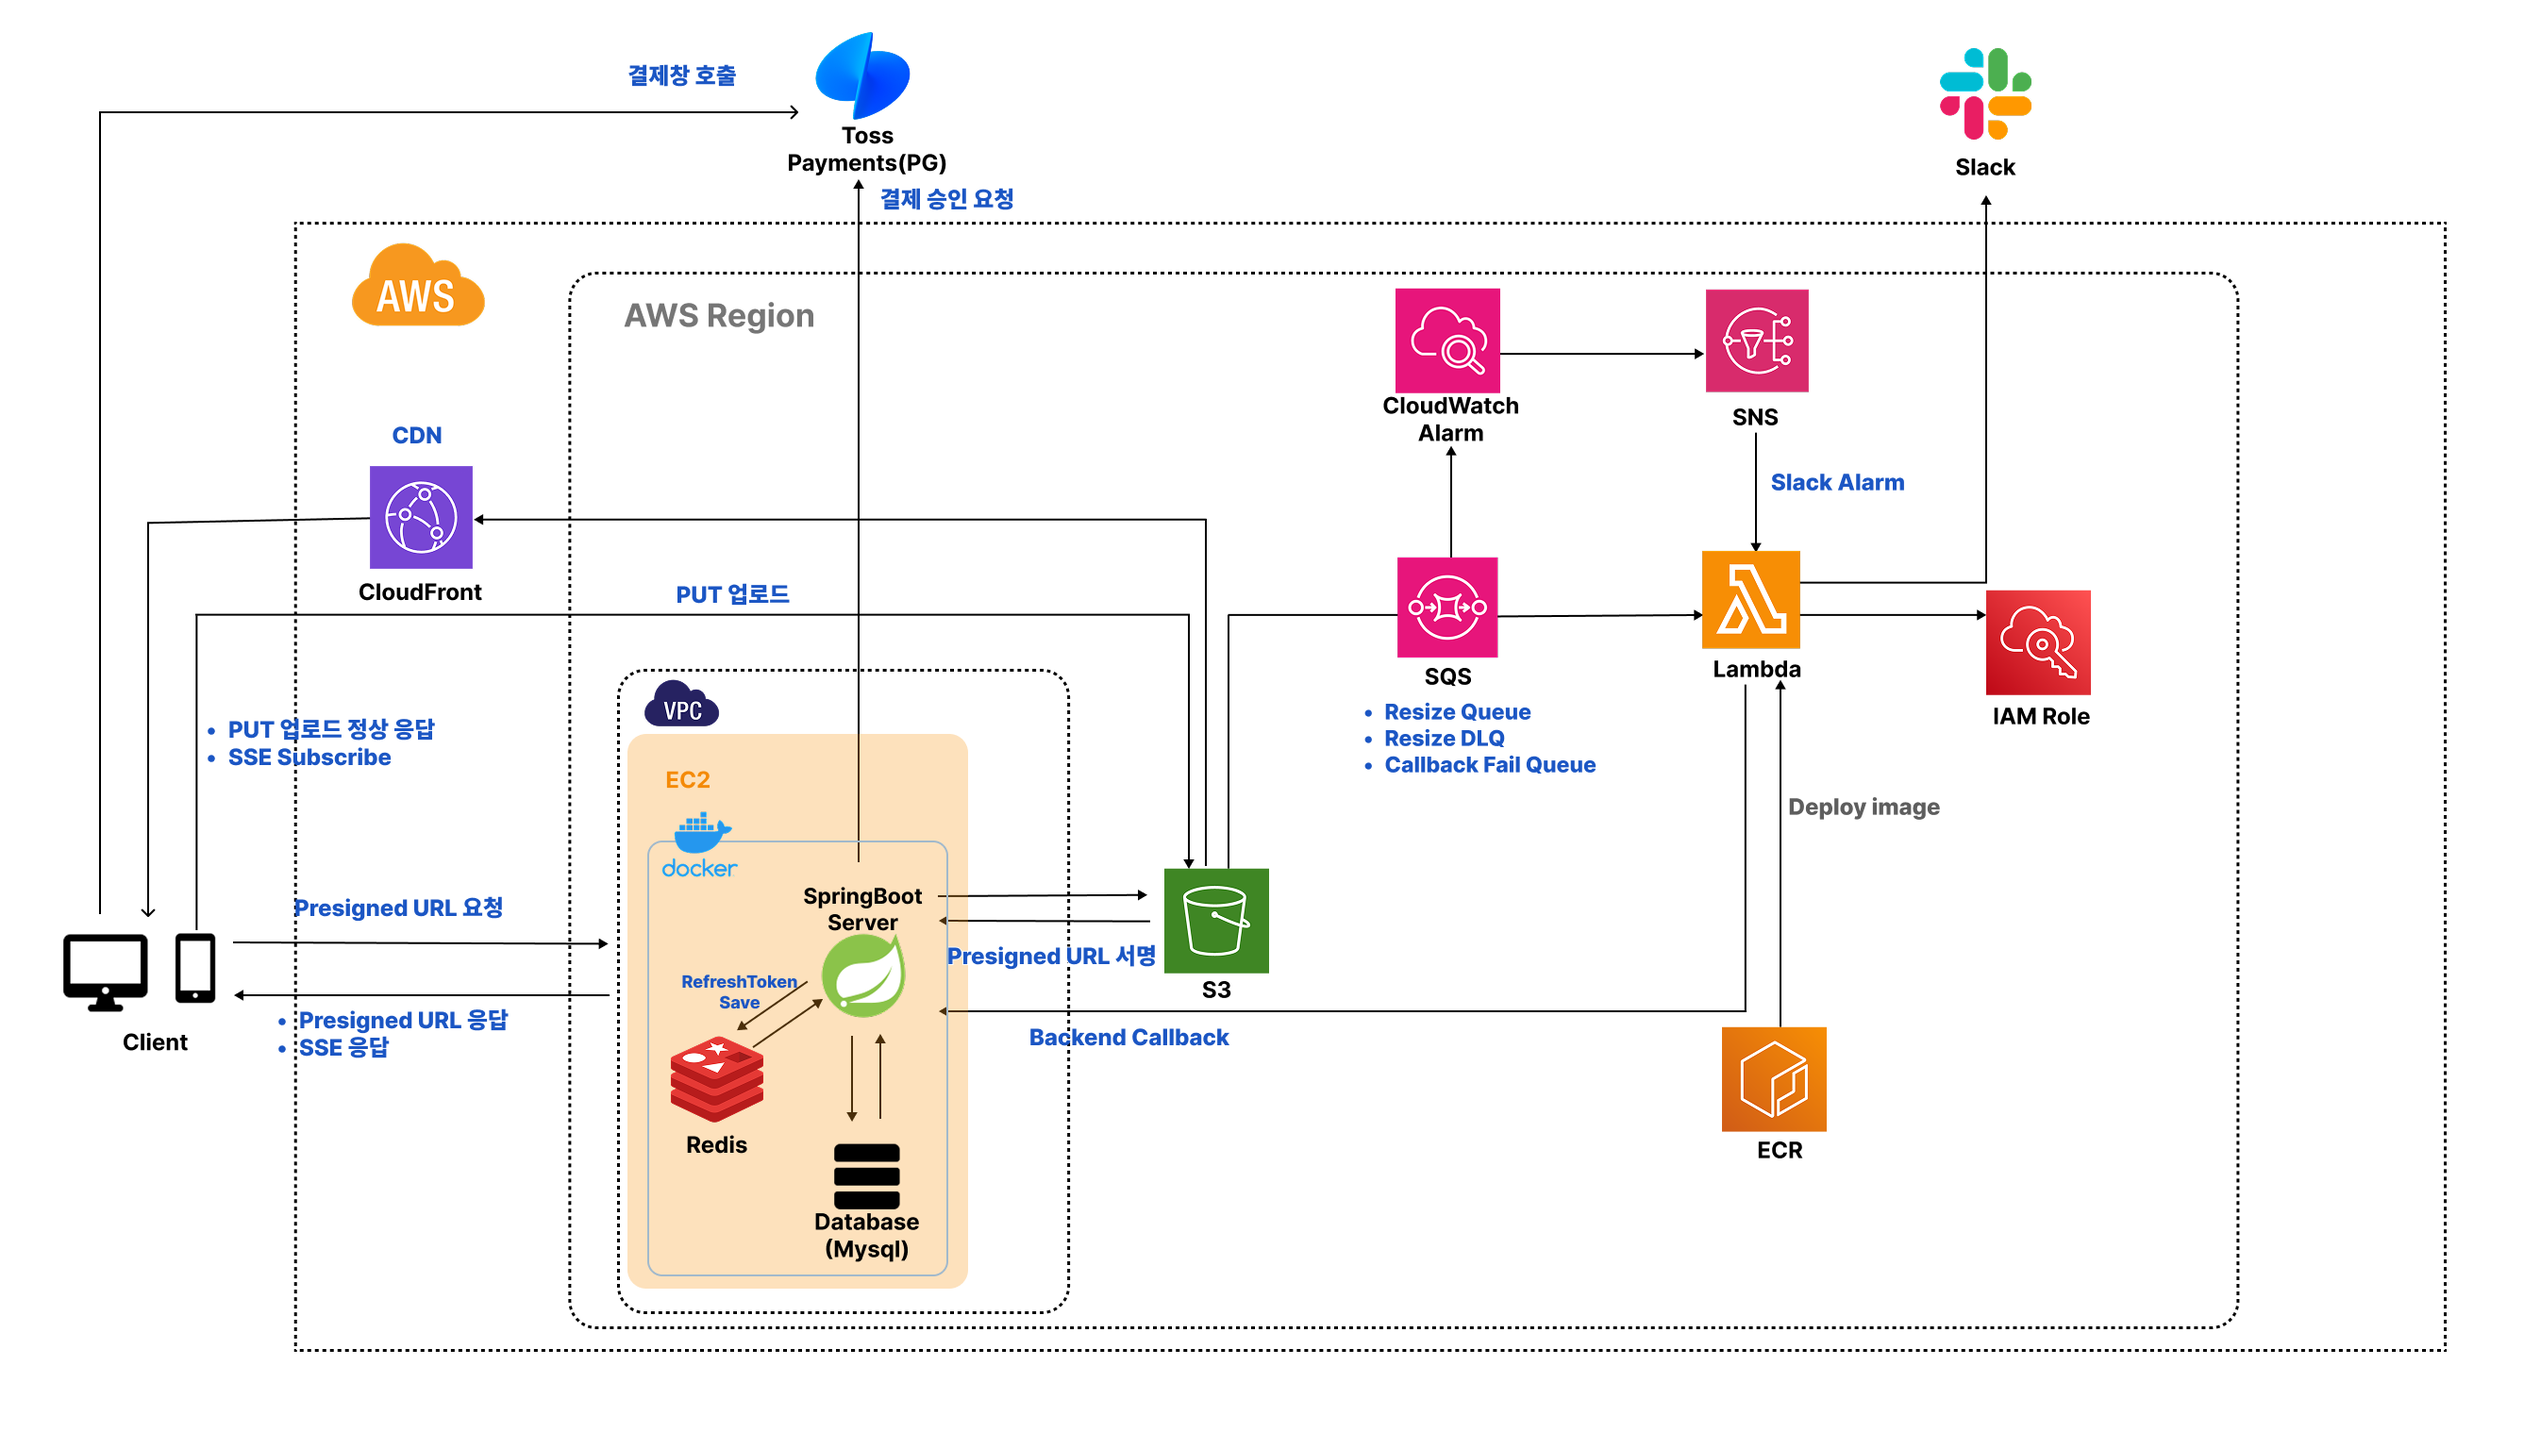
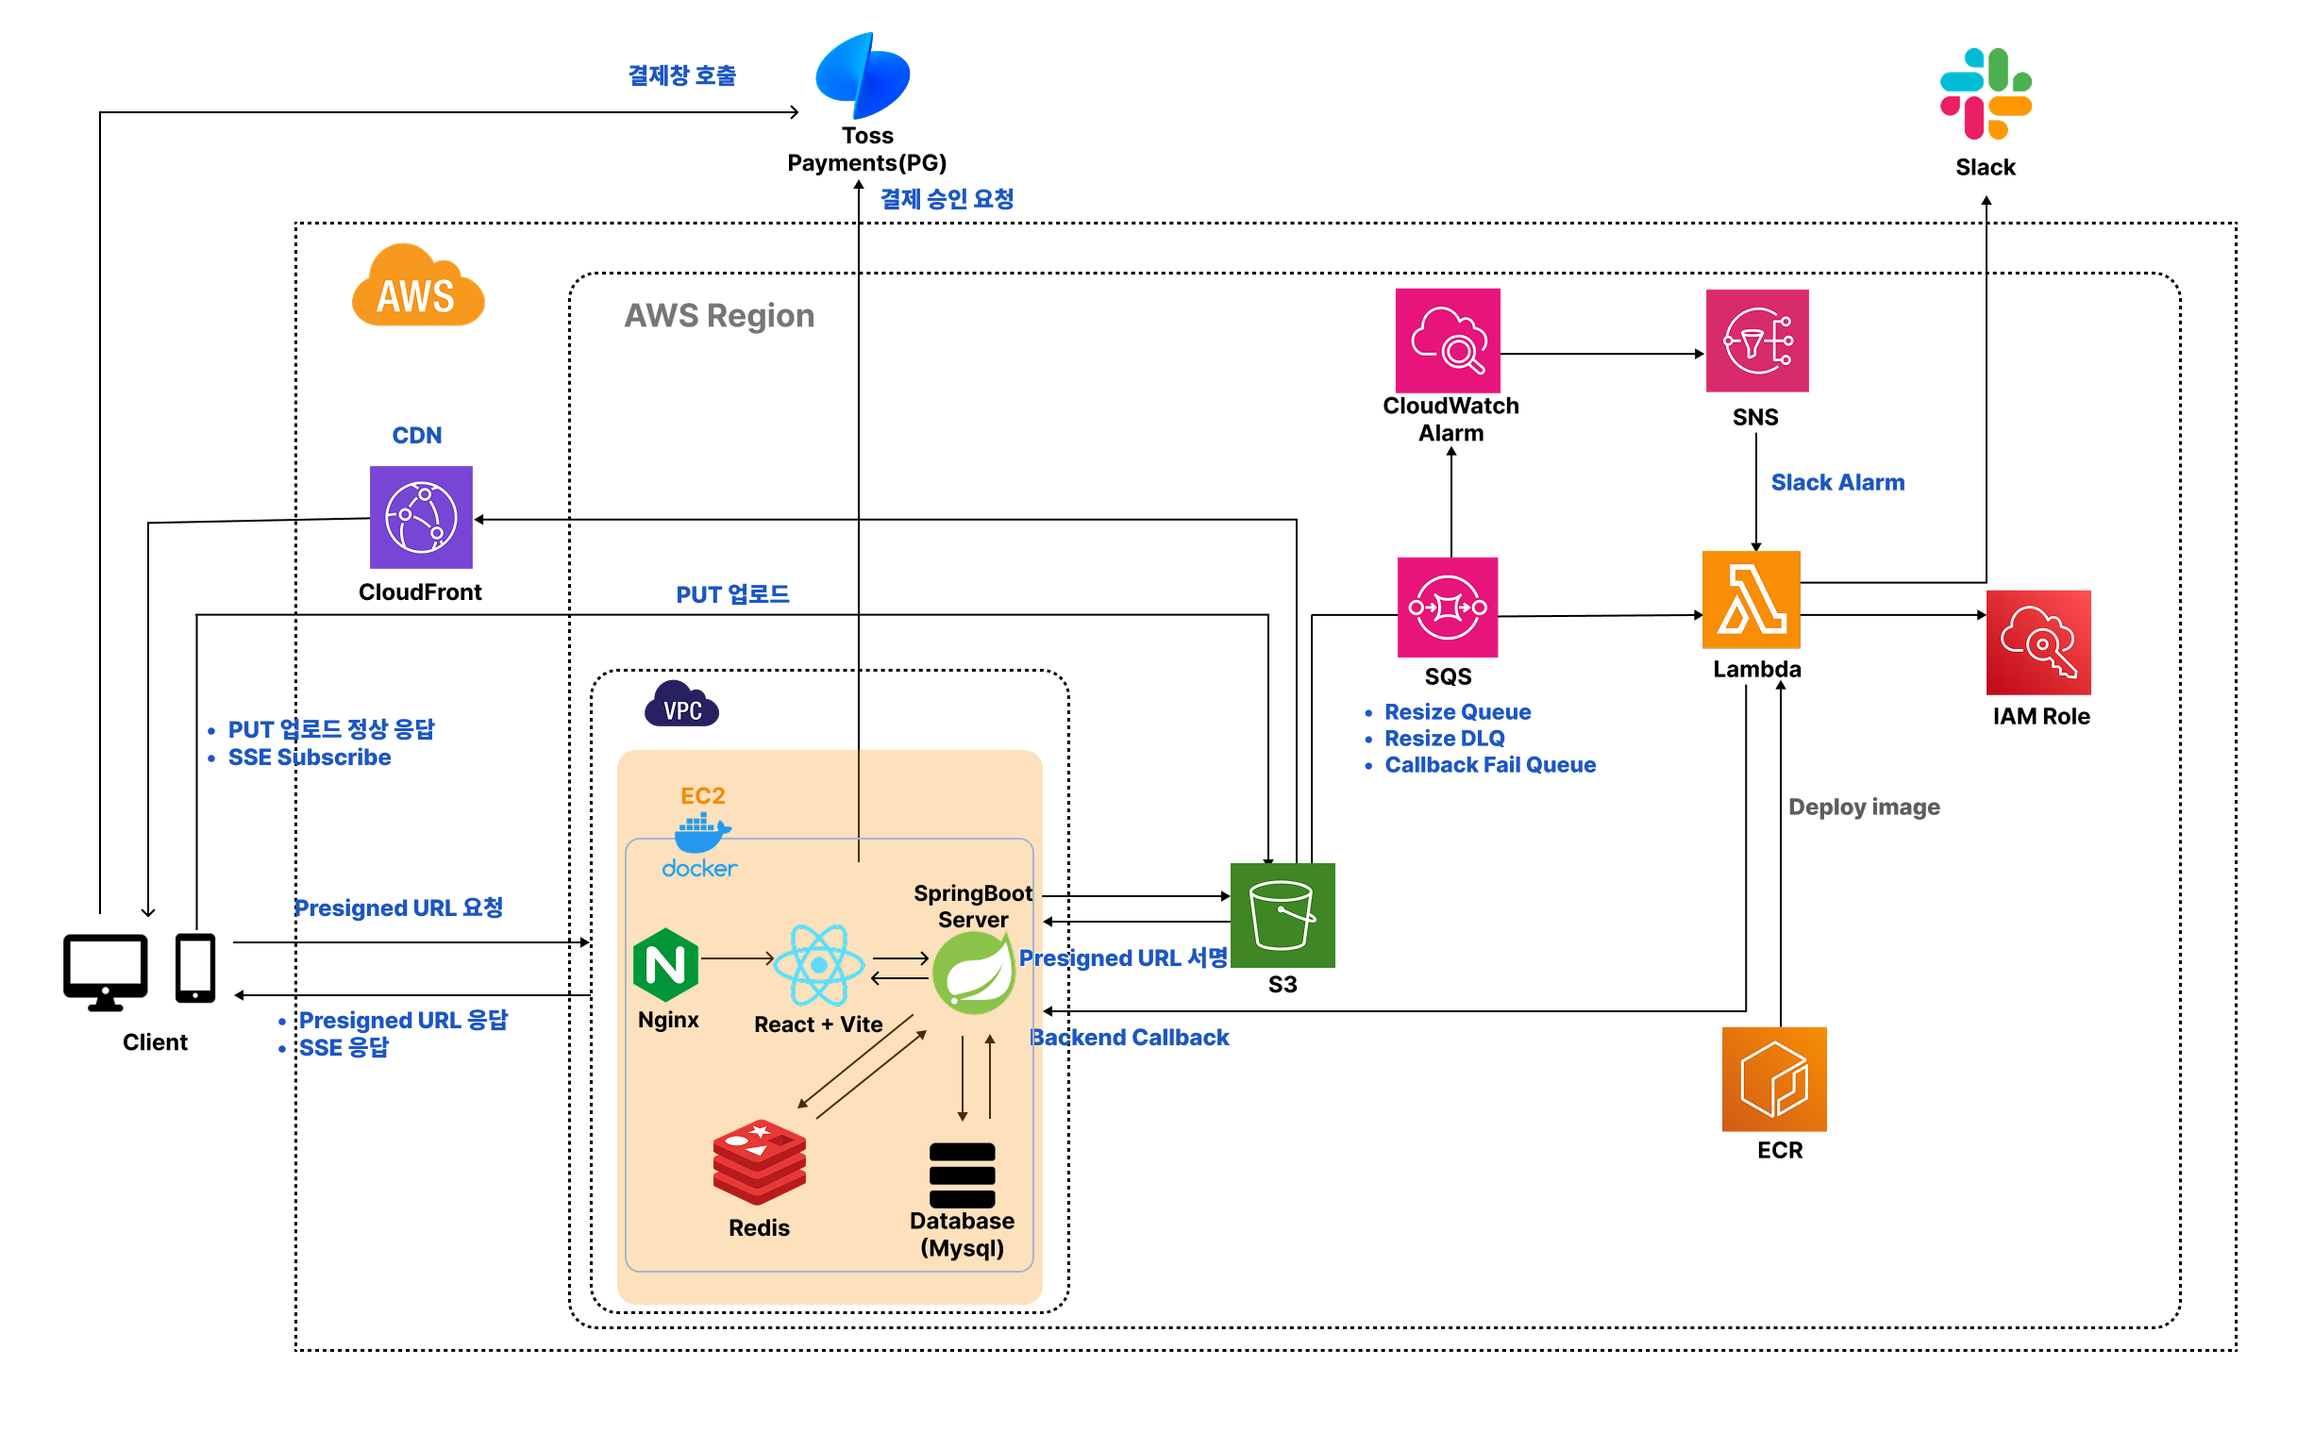
[#75] docs: 메인 리드미 수정

diff --git a/README.md b/README.md
@@ -5,6 +5,9 @@
 
 ### 시연영상
 
+배포 사이트: https://creatorhub.site
+- 프론트엔드는 React + Vite, TypeScript 기반으로 구현되었습니다.
+
 ### 주요기능
 #### 👨🎨 작가 기능
 - 작품 등록(작품 정보, 썸네일 이미지 업로드)
@@ -20,7 +23,7 @@
 - SQS + Lambda 비동기 이미지 리사이징
 - SSE 기반 이미지 처리 완료 알림
 
-#### 💳 결제 시스템
+#### 💳 결제 시스템(진행중)
 - Toss Payments 결제 연동
 - 결제 검증 및 코인 충전
 
@@ -31,7 +34,7 @@
 <br/>
 
 ## ☁ 아키텍쳐 다이어그램
-<img src="./docs/images/total_architecture.png" width="800" alt="아키텍쳐" />
+<img src="./docs/images/total_architecture.png" alt="아키텍쳐" />
 
 <br/>
 
